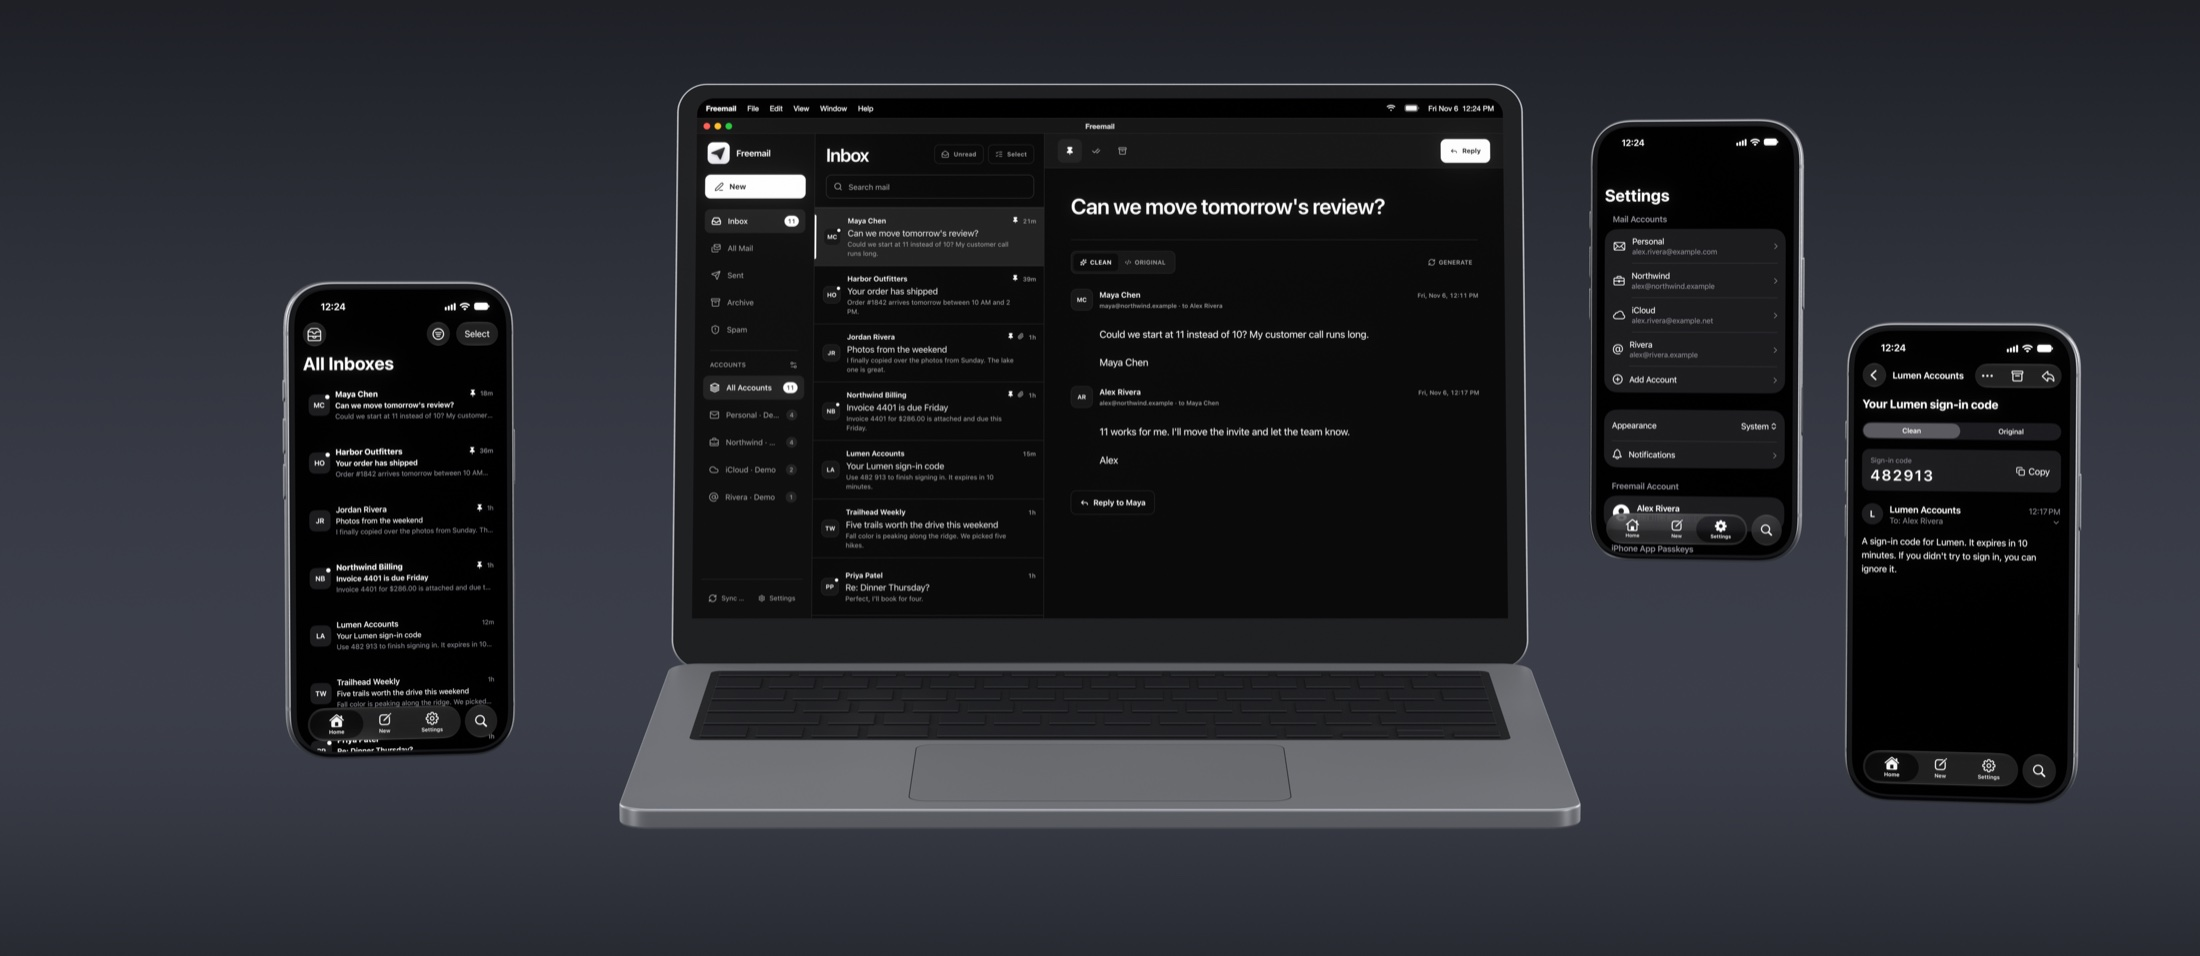
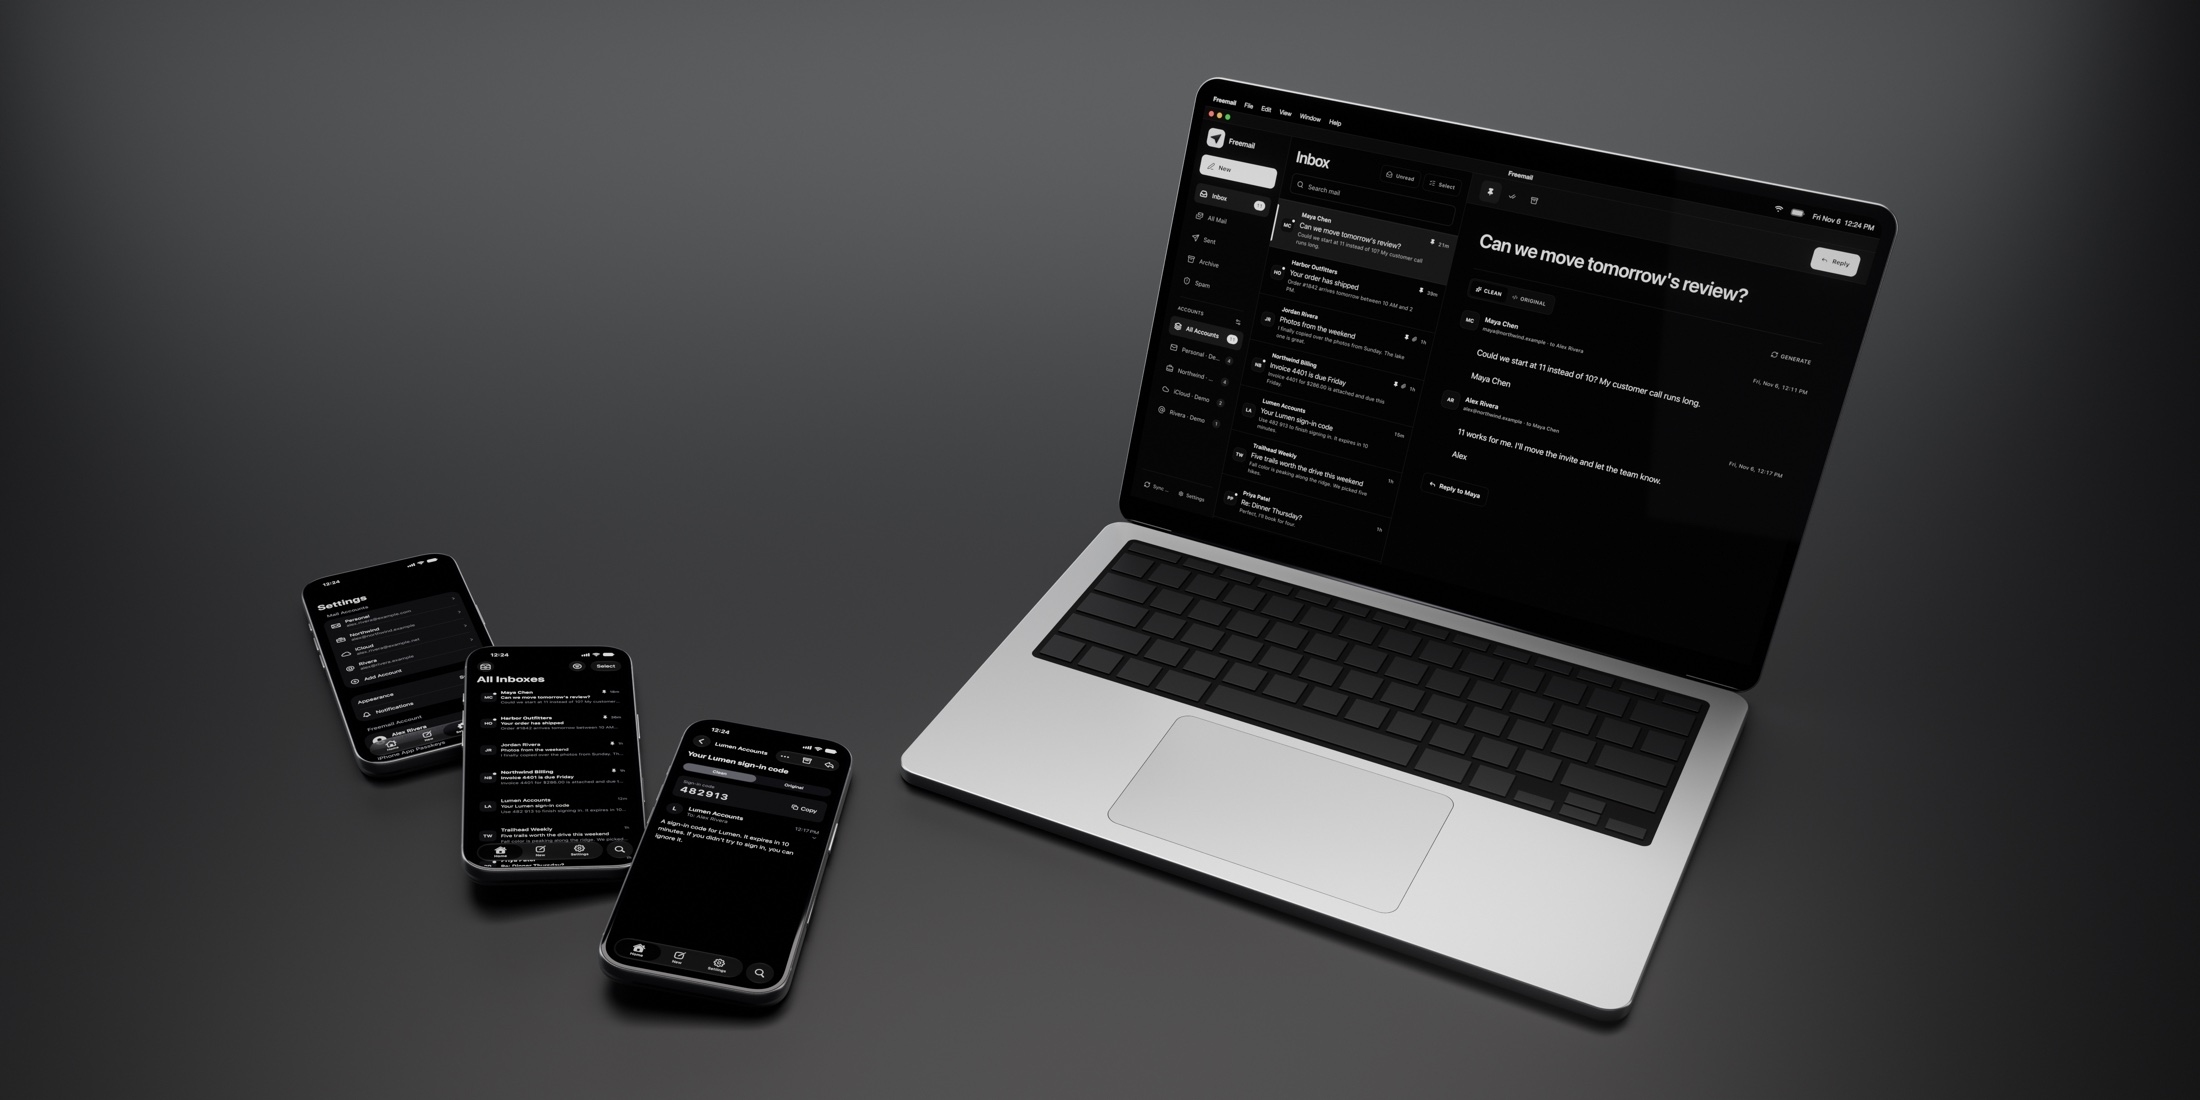
Put the laptop and phones on a table in the README header
The laptop sits on the right, turned toward the phones scattered on the
left, under studio light with contact shadows, thin even bezels, AgX, and
a vignette.

diff --git a/docs/design-assets.md b/docs/design-assets.md
@@ -19,14 +19,21 @@ Everything in it comes from an isolated backend's seeded mail
   mode at 1470×891 points, 2x. `frame.mjs` puts that inside a macOS menu bar
   and window (`frame.html`) and writes `textures/laptop-web.png` at the
   laptop's 2940×1912.
-- `build_scene.py`: SYNQ's iPhone 17 Pro model
-  (`~/projects/SYNQ/3d/3.0/v6`), three phones, and a thin laptop built to a
-  13-inch MacBook Air's proportions (30.41 × 21.5 × 1.13 cm, a 13.6-inch
-  display, full keyboard, trackpad, and hinge), on a graphite backdrop.
+- `build_scene.py`: a thin laptop built to a 13-inch MacBook Air's
+  proportions (30.41 × 21.5 × 1.13 cm, a 13.6-inch display behind even 5 mm
+  bezels, full keyboard, trackpad, hinge, and feet) on the right, turned
+  toward three of SYNQ's iPhone 17 Pros (`~/projects/SYNQ/3d/3.0/v6`) lying
+  on the left, one resting on the next. All of it sits on a dark table under
+  a soft studio key, a back sheen, and edge strips, rendered in Cycles with
+  AgX and a light bloom. It frames itself: the lens and shift are fitted so
+  everything sits inside even margins.
+- `post.py`: the finish after the render: a soft vignette, a gentle S-curve,
+  and fine grain.
 - `freemail_readme_header.blend`: the scene, with the images packed in. F12
-  renders it.
-- `panorama.png`: the render, 5520×2400.
-- `v1/`: the first header, five phones and no laptop.
+  renders it before `post.py`.
+- `render.png`, `final.png`: the render at 5200×2600, and after `post.py`.
+- `v1/`, `v2/`: the earlier headers (five phones; then three floating phones
+  and a laptop).
 
 To change it, from that folder, with an isolated backend and only the web
 app running (`pnpm -F @freemail/web dev`):
@@ -38,11 +45,12 @@ xcrun simctl status_bar <udid> override --time 12:24 \
 B=/Applications/Blender.app/Contents/MacOS/Blender
 $B -b --factory-startup --python add_island.py
 (cd web-capture && node capture.mjs https://<worktree>.www.freemail.local web.png && node frame.mjs)
-$B -b --factory-startup --python build_scene.py -- "$PWD/panorama.png" 100 160 save
-sips -s format jpeg -s formatOptions 85 --resampleWidth 2200 panorama.png \
+$B -b --factory-startup --python build_scene.py -- "$PWD/render.png" 100 256 save
+$B -b --factory-startup --python post.py -- "$PWD/render.png" "$PWD/final.png"
+sips -s format jpeg -s formatOptions 88 --resampleWidth 2200 final.png \
   --out <repo>/docs/images/readme-header.jpg
 ```
 
 `build_scene.py` takes the output file, the resolution percentage, and the
-sample count; `save` also writes the `.blend`. Render at 25% with about 32
+sample count; `save` also writes the `.blend`. Render at 25% with about 48
 samples to check the framing first.
